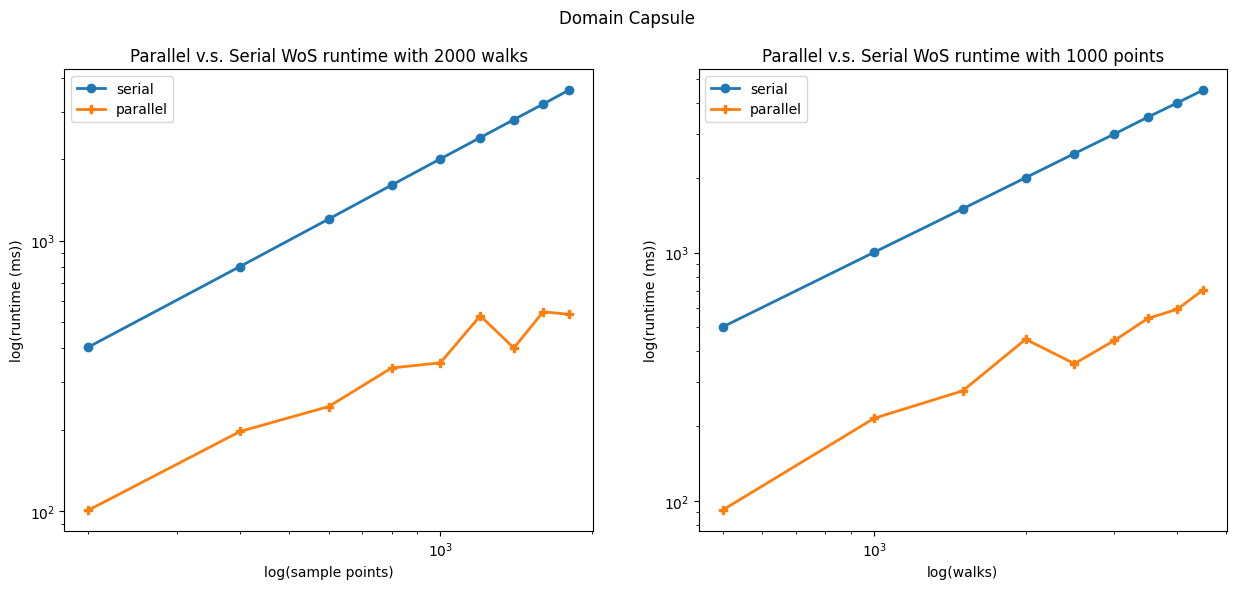
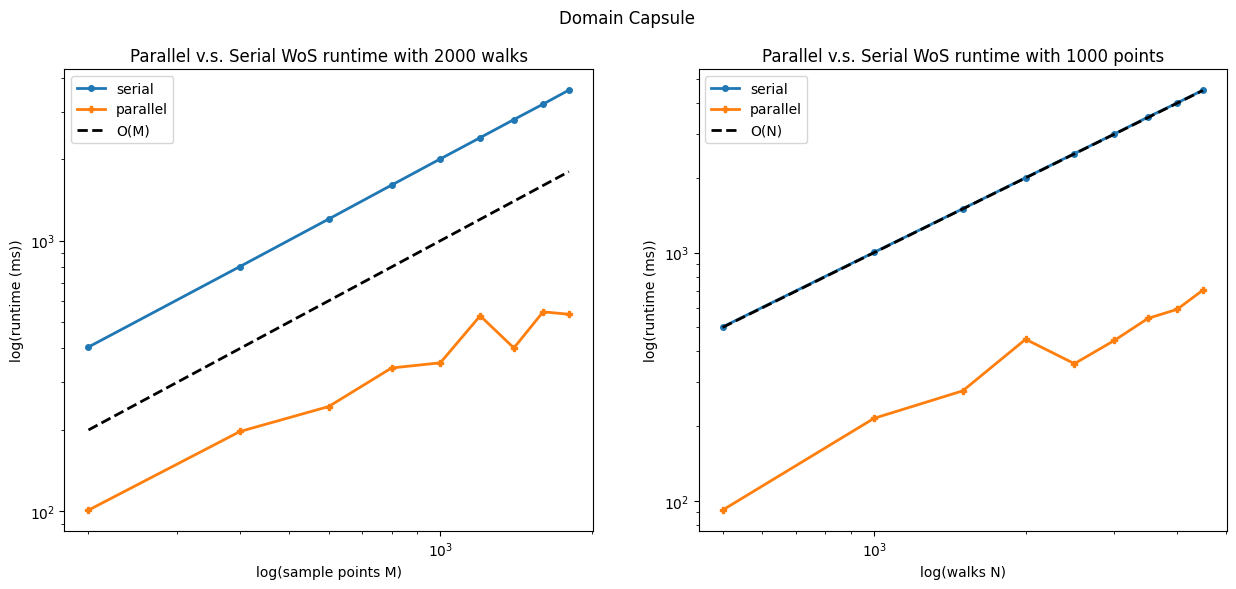
vis update

diff --git a/python/timeplot.py b/python/timeplot.py
@@ -19,12 +19,14 @@ walk = [500,1000,1500,2000,2500,3000,3500,4000,4500]
 fig = plt.figure(figsize=(15,6))
 ax1 = fig.add_subplot(121)
 
-ax1.plot(sample_pts,serial_1,label='serial',marker='o',lw=2.)
-ax1.plot(sample_pts,parallel_1,label='parallel',marker='P',lw=2.)
+ax1.plot(sample_pts,serial_1,label='serial',marker='o',lw=2.,markersize=4)
+ax1.plot(sample_pts,parallel_1,label='parallel',marker='P',lw=2.,markersize=4)
+ax1.plot(sample_pts,sample_pts,label='O(M)',linestyle='--',color='k',lw=2)
+
 ax1.set_xscale('log')
 ax1.set_yscale('log')
 ax1.legend()
-ax1.set_xlabel("log(sample points)")
+ax1.set_xlabel("log(sample points M)")
 ax1.set_ylabel("log(runtime (ms))")
 ax1.set_title("Parallel v.s. Serial WoS runtime with 2000 walks")
 
@@ -36,12 +38,13 @@ serial_2 = [502.359,1011.35,1484.98,1950.27,2468.3,2877.74,
           3418.69,3999.3,4565.76]
 
 ax2 = fig.add_subplot(122)
-ax2.plot(walk,serial_2,label='serial',marker='o',lw=2.)
-ax2.plot(walk,parallel_2,label='parallel',marker='P',lw=2.)
+ax2.plot(walk,serial_2,label='serial',marker='o',lw=2.,markersize=4.)
+ax2.plot(walk,parallel_2,label='parallel',marker='P',lw=2.,markersize=4.)
+ax2.plot(walk,walk,color='k',lw=2.,linestyle='--',label='O(N)')
 ax2.set_xscale('log')
 ax2.set_yscale('log')
 ax2.legend()
-ax2.set_xlabel("log(walks)")
+ax2.set_xlabel("log(walks N)")
 ax2.set_ylabel("log(runtime (ms))")
 ax2.set_title("Parallel v.s. Serial WoS runtime with 1000 points")
 plt.suptitle("Domain Sphere")
@@ -62,10 +65,11 @@ ax1 = fig.add_subplot(121)
 
 ax1.plot(sample_pts,serial_1,label='serial',marker='o',lw=2.)
 ax1.plot(sample_pts,parallel_1,label='parallel',marker='P',lw=2.)
+ax1.plot(sample_pts,sample_pts,label='O(M)',linestyle='--',color='k',lw=2)
 ax1.set_xscale('log')
 ax1.set_yscale('log')
 ax1.legend()
-ax1.set_xlabel("log(sample points)")
+ax1.set_xlabel("log(sample points M)")
 ax1.set_ylabel("log(runtime (ms))")
 ax1.set_title("Parallel v.s. Serial WoS runtime with 2000 walks")
 
@@ -79,10 +83,11 @@ serial_2 = [478.455,841.096,1763.32,1222.91,2186.18,2548.76,2882.61,
 ax2 = fig.add_subplot(122)
 ax2.plot(walk,serial_2,label='serial',marker='o',lw=2.)
 ax2.plot(walk,parallel_2,label='parallel',marker='P',lw=2.)
+ax2.plot(walk,walk,color='k',label='O(N)',linestyle='--',lw=2.)
 ax2.set_xscale('log')
 ax2.set_yscale('log')
 ax2.legend()
-ax2.set_xlabel("log(walks)")
+ax2.set_xlabel("log(walks N)")
 ax2.set_ylabel("log(runtime (ms))")
 ax2.set_title("Parallel v.s. Serial WoS runtime with 1000 points")
 plt.suptitle("Domain Link")
@@ -100,12 +105,13 @@ serial_1 = [404.972,803.217,1202.58,1604.96,
 fig = plt.figure(figsize=(15,6))
 ax1 = fig.add_subplot(121)
 
-ax1.plot(sample_pts,serial_1,label='serial',marker='o',lw=2.)
-ax1.plot(sample_pts,parallel_1,label='parallel',marker='P',lw=2.)
+ax1.plot(sample_pts,serial_1,label='serial',marker='o',lw=2.,markersize=4.)
+ax1.plot(sample_pts,parallel_1,label='parallel',marker='P',lw=2.,markersize=4.)
+ax1.plot(sample_pts,sample_pts,label='O(M)',color='k',linestyle='--',lw=2)
 ax1.set_xscale('log')
 ax1.set_yscale('log')
 ax1.legend()
-ax1.set_xlabel("log(sample points)")
+ax1.set_xlabel("log(sample points M)")
 ax1.set_ylabel("log(runtime (ms))")
 ax1.set_title("Parallel v.s. Serial WoS runtime with 2000 walks")
 
@@ -117,12 +123,13 @@ serial_2 = [501.779,1003.15,1502.14,2004.23,2506.69,3004.22,3516.21,
           4008.46,4514.4]
 
 ax2 = fig.add_subplot(122)
-ax2.plot(walk,serial_2,label='serial',marker='o',lw=2.)
-ax2.plot(walk,parallel_2,label='parallel',marker='P',lw=2.)
+ax2.plot(walk,serial_2,label='serial',marker='o',lw=2.,markersize=4.)
+ax2.plot(walk,walk,color='k',label='O(N)',linestyle='--',lw=2.)
+ax2.plot(walk,parallel_2,label='parallel',marker='P',lw=2.,markersize=4.)
 ax2.set_xscale('log')
 ax2.set_yscale('log')
 ax2.legend()
-ax2.set_xlabel("log(walks)")
+ax2.set_xlabel("log(walks N)")
 ax2.set_ylabel("log(runtime (ms))")
 ax2.set_title("Parallel v.s. Serial WoS runtime with 1000 points")
 plt.suptitle("Domain Capsule")
